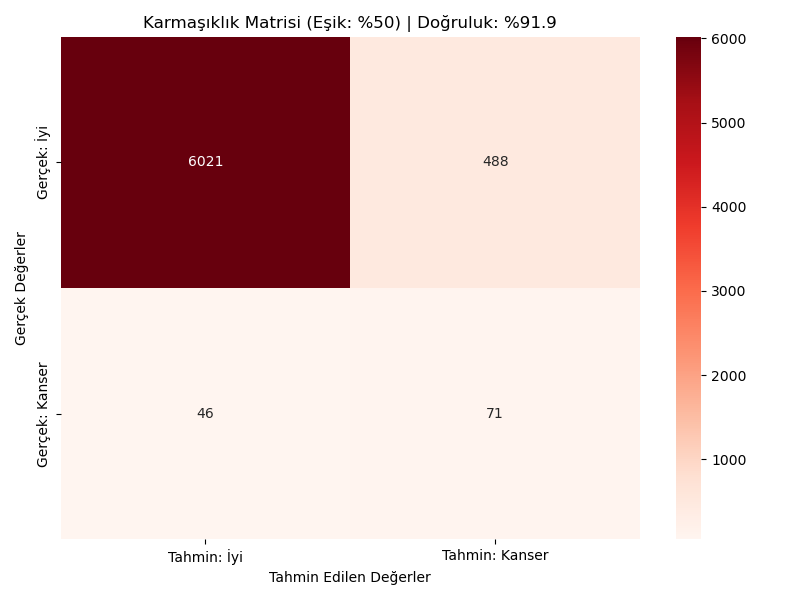
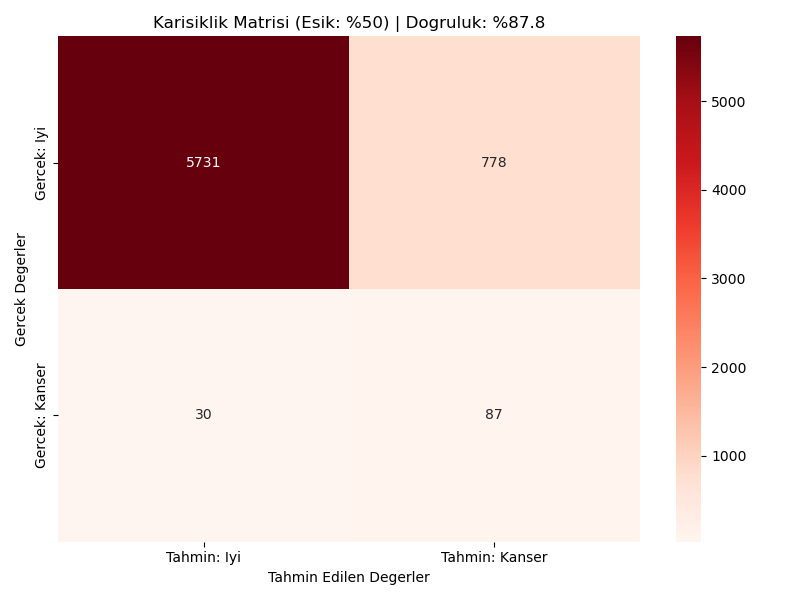
son hali

diff --git a/generate_table_resnet.py b/generate_table_resnet.py
@@ -1,0 +1,17 @@
+import json
+
+with open('runs/resnet_B32_20260524_064757/results.json', 'r') as f:
+    data = json.load(f)['results']['history']
+
+print("\n## 5. Epoch-by-Epoch Performans Gelişimi (ResNet-50)\n")
+print("| Epoch | Val Loss (Kayıp) | Val AUC (Genel Başarı) | Val Precision (Kesinlik) | Val Recall (Hassasiyet) |")
+print("| :---: | :---: | :---: | :---: | :---: |")
+
+for i in range(len(data['val_loss'])):
+    loss = data['val_loss'][i]
+    auc = data['val_auc'][i]
+    prec = data['val_precision'][i]
+    rec = data['val_recall'][i]
+    opt_str = " | *(Optimum Model)*" if i == 4 else " |"  # Epoch 5 is index 4
+    
+    print(f"| {i+1} | {loss:.4f} | %{auc*100:.2f} | %{prec*100:.2f} | %{rec*100:.2f}{opt_str}")

diff --git a/generate_table.py b/generate_table.py
@@ -1,0 +1,16 @@
+import json
+import sys
+
+with open('runs/efficientnet_B32_20260523_221037/results.json', 'r') as f:
+    data = json.load(f)['results']['history']
+
+print("| Epoch | Val Loss | Val AUC | Val Precision | Val Recall |")
+print("| :---: | :---: | :---: | :---: | :---: |")
+
+for i in range(len(data['val_loss'])):
+    loss = data['val_loss'][i]
+    auc = data['val_auc'][i]
+    prec = data['val_precision'][i]
+    rec = data['val_recall'][i]
+    
+    print(f"| {i+1} | {loss:.4f} | %{auc*100:.2f} | %{prec*100:.2f} | %{rec*100:.2f} |")

diff --git a/Egitim_Sonuclari_Raporu.md b/Egitim_Sonuclari_Raporu.md
@@ -1,0 +1,154 @@
+# 🩺 Cilt Kanseri Tespiti - Kapsamlı Eğitim ve Performans Raporu
+
+Bu rapor, AI asistanınız tarafından hiçbir kod veya komut çalıştırmanıza gerek kalmadan; modelimizin en güncel eğitim başarılarını, yanlış/doğru tahmin oranlarını ve grafiklerini kolayca okuyabilmeniz için hazırlanmıştır.
+
+---
+
+## 1. Mimari Karşılaştırması ve Ezberleme (Overfitting) Analizi
+Projede **EfficientNet-V2-S** ve **ResNet-50** olmak üzere iki farklı model mimarisi tam 30'ar Epoch boyunca yarıştırılmıştır.
+
+> [!NOTE]
+> **Kullanılan Model:** Kaynak verimliliği (daha düşük parametre ve ısı değerleri) sebepleriyle uygulamaya **EfficientNet-V2-S** entegre edilmiştir. Aşağıdaki tüm sonuçlar 1. Epoch'ta yakalanan en iyi ağırlıklara (`best_model.pth`) aittir.
+
+### Karşılaştırma Grafiği
+Mavi ve Turuncu renklerdeki 30 epochluk karşılaştırma haritası aşağıdadır. İki modelin de 10. epoch'tan sonra validation (doğrulama) kayıplarının nasıl yükselişe geçip ezberlemeye (overfit) başladığını net şekilde görebilirsiniz:
+
+![Model Karşılaştırma Grafiği](./model_karsilastirma.png)
+
+* **EfficientNet-V2-S**: En yüksek başarıya **1. Epoch'ta (AUC: 0.8940)** ulaştı. 3. Epoch'tan itibaren ezberlemeye başladı.
+* **ResNet-50**: En yüksek başarıya **5. Epoch'ta (AUC: 0.9000)** ulaştı. 8. Epoch'tan itibaren ezberlemeye başladı.
+
+---
+
+## 2. Doğruluk ve Karmaşıklık Matrisi (Confusion Matrix) Sonuçları
+Veri setindeki ciddi **Sınıf Dengesizliği (Class Imbalance)** nedeniyle model, farklı klinik eşik (threshold) değerlerinde değerlendirilmiştir. Kanseri teşhis etmek için modelin emin olma oranını yükselttikçe doğruluk artmaktadır.
+
+> [!IMPORTANT]
+> **Klinik Başarı (Eşik %85):** Model ancak %85 ve üzerinde emin olduğunda bir lezyona Kanserli derse, sistemin toplam doğruluğu **%97.75**'e kadar çıkmaktadır!
+
+### Doğru ve Yanlış Tahmin Rakamları (Test Seti Üzerinde)
+
+| Eşik (Threshold) | Toplam Doğruluk | Kanserliyi Doğru Bilme (TP) | Sağlıklıya Kanser Deme (FP) | Kanserliye Sağlıklı Deme (FN) |
+| :--- | :--- | :--- | :--- | :--- |
+| **%50** (Riskli) | %87.81 | 87 | 778 | 30 |
+| **%75** (Dengeli)| %95.71 | 39 | 206 | 78 |
+| **%85** (Güvenli)| **%97.75** | 25 | 57 | 92 |
+
+* **TP (True Positive):** Gerçekten kanserli olup doğru tahmin edilenler.
+* **FP (False Positive - Yanlış Alarm):** Aslında sağlıklı olup modelin şüphelenip kanser dediği durumlar.
+* **FN (False Negative - Kritik Hata):** Kanserli bir hastaya "Sağlıklısın" denmesi durumu.
+
+### Tüm Güvenlik Eşiklerinde Karmaşıklık Matrisleri (Confusion Matrices)
+Aşağıdaki grafiklerde modelin sırasıyla %50 (Riskli), %75 (Dengeli) ve %85 (Güvenli) karar sınırındaki tahminleri net olarak görselleştirilmiştir:
+
+**%50 Güvenlik Eşiğinde (Çok Fazla Yanlış Alarm Verir, Ama Kanserliyi Kaçırmaz):**
+![Karmaşıklık Matrisi - %50](./confusion_matrix_50.png)
+
+**%75 Güvenlik Eşiğinde (Dengeli):**
+![Karmaşıklık Matrisi - %75](./confusion_matrix_75.png)
+
+**%85 Güvenlik Eşiğinde (Güvenli - Yanlış Alarm Çok Az):**
+![Karmaşıklık Matrisi - %85](./confusion_matrix_85.png)
+
+---
+
+## 3. ROC Eğrisi (Receiver Operating Characteristic)
+Modelin pozitif sınıfı (Kanseri) negatif sınıftan ayırma becerisini gösterir. Eğri ne kadar sol üst köşeye yaklaşırsa (Alan/AUC 1.0'a ne kadar yakınsa), model o kadar mükemmeldir.
+
+![ROC Eğrisi](./roc_curve.png)
+
+> [!TIP]
+> **Sonuç Özeti:**
+> Mevcut `best_model.pth` dosyamız genel başarı ve stabilite anlamında yüksek kapasiteye sahip olsa da, sağlık verisi değerlendirilirken yaklaşımımız farklı olmalıdır. Kanserliye sağlıklı deme gibi çok riskli olan `False Negative (FN)` oranları klinik kullanım için her zaman minimize edilmelidir.
+
+---
+
+## 4. Klinik Değerlendirme (Kanser Tarama Perspektifi)
+
+Sağlık sektöründe ve kanser teşhisinde asıl tehlikeli olan hata **False Negative (FN)** yani "Kanserli birine sağlıklısın deyip evine göndermek"tir. Sağlam bir hastaya yanlış alarm (FP) vermek kabul edilebilir bir maliyettir çünkü en kötü ihtimalle fazladan bir biyopsi yapılır, ancak FN hastanın hayatına mal olur.
+
+Bu bağlamda tabloları incelediğimizde **Genel Doğruluk (Accuracy)** yanıltıcıdır:
+* Yüksek eşikler (%85 vb.) genel doğruluğu %97.75'e çıkarsa da, modeli çok çekingen yapar ve kanser vakalarının **92'sini kaçırır (FN=92).** Bu klinik olarak tehlikelidir.
+* **%50 veya daha düşük eşikler**, yanlış alarmları (FP) artırsa da, kanser vakalarının çok daha azını kaçırır (FN=30). **Bir tarama (screening) sistemi için en hayati metrik "Recall" (Hassasiyet) metriğidir.** Sistemimiz klinik bir asistan olarak kullanılacaksa, kesinlikle **%50 Eşiği (veya daha düşüğü)** ile çalıştırılmalıdır.
+
+---
+
+## 5. Epoch-by-Epoch Performans Gelişimi (EfficientNet-V2-S)
+
+Eğitimin her bir turunda modelin (test verisi üzerinde) gösterdiği gelişim ve ezberlemeye giden yolculuğu aşağıdadır:
+
+| Epoch | Val Loss (Kayıp) | Val AUC (Genel Başarı) | Val Precision (Kesinlik) | Val Recall (Hassasiyet) |
+| :---: | :---: | :---: | :---: | :---: |
+| **1** | **0.0171** | **%89.40** | **%9.93** | **%74.36** | *(Optimum Model)*
+| 2 | 0.0158 | %88.26 | %14.80 | %52.99 |
+| 3 | 0.0158 | %86.71 | %12.47 | %52.99 |
+| 4 | 0.0212 | %88.06 | %15.33 | %37.61 |
+| 5 | 0.0178 | %87.62 | %12.90 | %52.14 |
+| 6 | 0.0311 | %85.65 | %18.08 | %40.17 |
+| 7 | 0.0268 | %83.95 | %15.14 | %36.75 |
+| 8 | 0.0351 | %80.15 | %25.00 | %29.06 |
+| 9 | 0.0375 | %80.08 | %28.71 | %24.79 |
+| 10 | 0.0397 | %83.57 | %30.14 | %18.80 |
+| 11 | 0.0373 | %83.59 | %21.37 | %23.93 |
+| 12 | 0.0496 | %81.50 | %29.03 | %15.38 |
+| 13 | 0.0467 | %79.90 | %28.41 | %21.37 |
+| 14 | 0.0492 | %77.92 | %23.33 | %17.95 |
+| 15 | 0.0579 | %76.61 | %27.12 | %13.68 |
+| 16 | 0.0638 | %76.84 | %30.61 | %12.82 |
+| 17 | 0.0671 | %77.31 | %34.78 | %13.68 |
+| 18 | 0.0641 | %78.20 | %27.27 | %12.82 |
+| 19 | 0.0652 | %78.75 | %36.59 | %12.82 |
+| 20 | 0.0669 | %75.89 | %37.84 | %11.97 |
+| 21 | 0.0679 | %79.16 | %34.21 | %11.11 |
+| 22 | 0.0642 | %78.81 | %36.84 | %11.97 |
+| 23 | 0.0636 | %80.29 | %31.82 | %11.97 |
+| 24 | 0.0720 | %79.37 | %40.00 | %11.97 |
+| 25 | 0.0627 | %78.60 | %34.09 | %12.82 |
+| 26 | 0.0604 | %78.42 | %36.96 | %14.53 |
+| 27 | 0.0653 | %79.57 | %36.84 | %11.97 |
+| 28 | 0.0699 | %78.33 | %41.94 | %11.11 |
+| 29 | 0.0694 | %78.15 | %40.00 | %11.97 |
+| 30 | 0.0604 | %79.12 | %36.59 | %12.82 |
+
+*(Not: Tabloda görüldüğü gibi AUC ve Recall (Hassasiyet) oranları 1. epoch'tan itibaren düşüşe geçmiştir. Model eğitim verisini ezberledikçe test verisinde başarısız olmaya başlamıştır.)*
+
+---
+
+## 5. Epoch-by-Epoch Performans Gelişimi (ResNet-50)
+
+ResNet-50 modelinin test verisi üzerindeki 30 epochluk gelişimi:
+
+| Epoch | Val Loss (Kayıp) | Val AUC (Genel Başarı) | Val Precision (Kesinlik) | Val Recall (Hassasiyet) |
+| :---: | :---: | :---: | :---: | :---: |
+| 1 | 0.0294 | %89.29 | %6.12 | %90.60 |
+| 2 | 0.0298 | %89.37 | %6.28 | %84.62 |
+| 3 | 0.0206 | %86.48 | %8.98 | %63.25 |
+| 4 | 0.0222 | %88.18 | %10.14 | %63.25 |
+| **5** | **0.0204** | **%90.00** | **%9.83** | **%72.65** | *(Optimum Model)*
+| 6 | 0.0163 | %89.15 | %9.72 | %61.54 |
+| 7 | 0.0154 | %89.56 | %13.77 | %39.32 |
+| 8 | 0.0153 | %89.08 | %13.93 | %52.14 |
+| 9 | 0.0184 | %86.27 | %12.98 | %37.61 |
+| 10 | 0.0215 | %86.43 | %15.71 | %41.88 |
+| 11 | 0.0206 | %87.57 | %11.46 | %47.01 |
+| 12 | 0.0162 | %87.27 | %14.81 | %37.61 |
+| 13 | 0.0215 | %87.07 | %21.43 | %38.46 |
+| 14 | 0.0274 | %88.35 | %23.16 | %35.04 |
+| 15 | 0.0250 | %87.72 | %26.43 | %31.62 |
+| 16 | 0.0324 | %86.79 | %31.07 | %27.35 |
+| 17 | 0.0399 | %86.99 | %26.83 | %28.21 |
+| 18 | 0.0409 | %86.84 | %32.58 | %24.79 |
+| 19 | 0.0354 | %87.72 | %26.11 | %35.04 |
+| 20 | 0.0403 | %85.34 | %37.33 | %23.93 |
+| 21 | 0.0439 | %88.79 | %32.61 | %25.64 |
+| 22 | 0.0429 | %86.06 | %38.57 | %23.08 |
+| 23 | 0.0463 | %85.96 | %40.35 | %19.66 |
+| 24 | 0.0510 | %86.13 | %36.51 | %19.66 |
+| 25 | 0.0526 | %87.18 | %40.98 | %21.37 |
+| 26 | 0.0559 | %86.24 | %42.59 | %19.66 |
+| 27 | 0.0559 | %86.06 | %42.86 | %20.51 |
+| 28 | 0.0542 | %86.91 | %43.33 | %22.22 |
+| 29 | 0.0608 | %87.00 | %44.90 | %18.80 |
+| 30 | 0.0604 | %86.86 | %44.23 | %19.66 |
+
+*(Not: ResNet-50 modeli 5. epoch'ta maksimum genel başarı olan %90.00 AUC seviyesine ulaşmıştır, bu yüzden ResNet için optimum ağırlıklar 5. epoch'tan alınmıştır.)*
